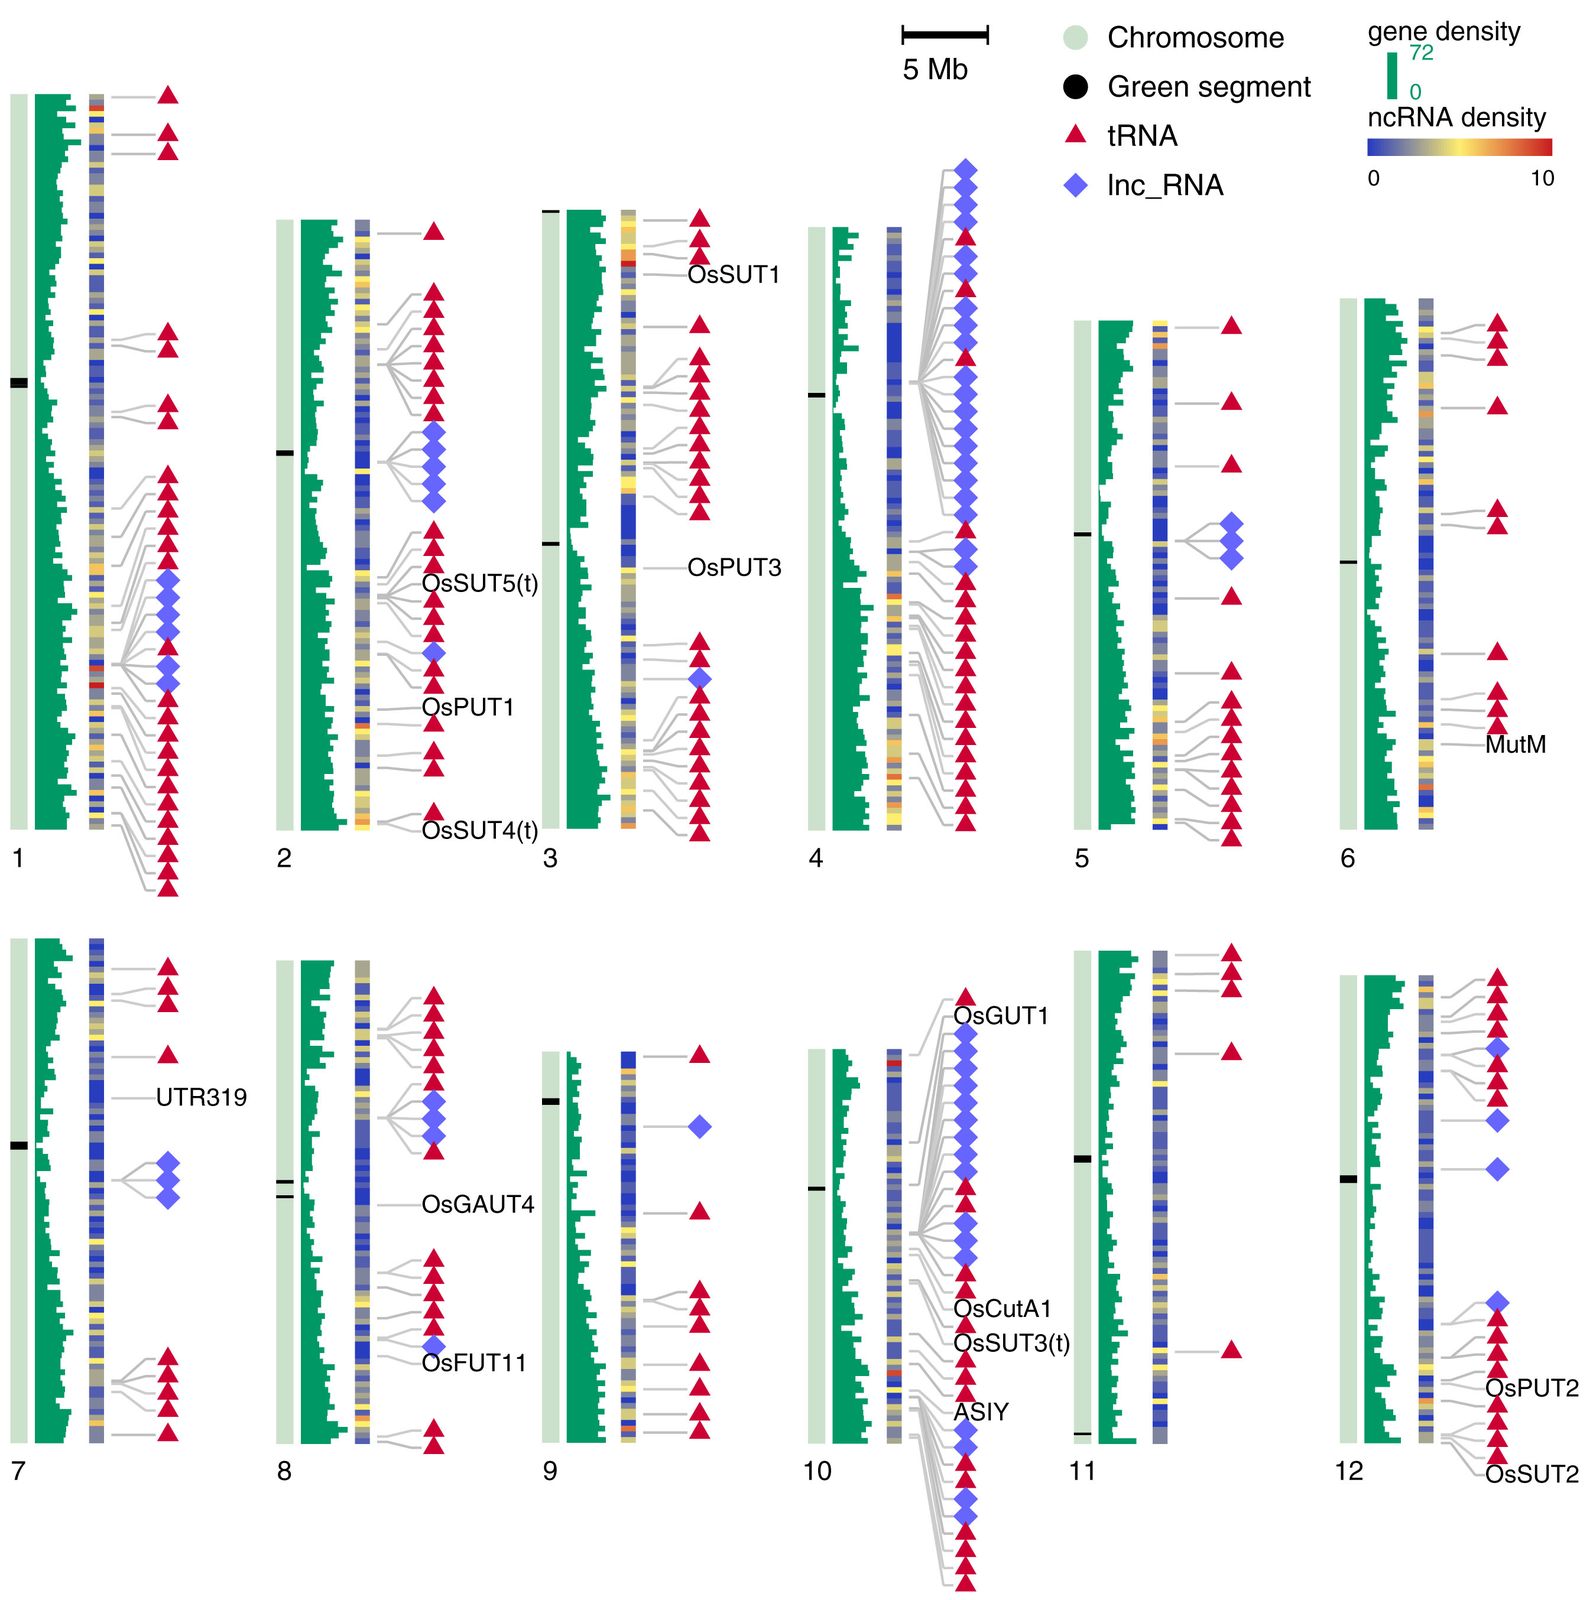
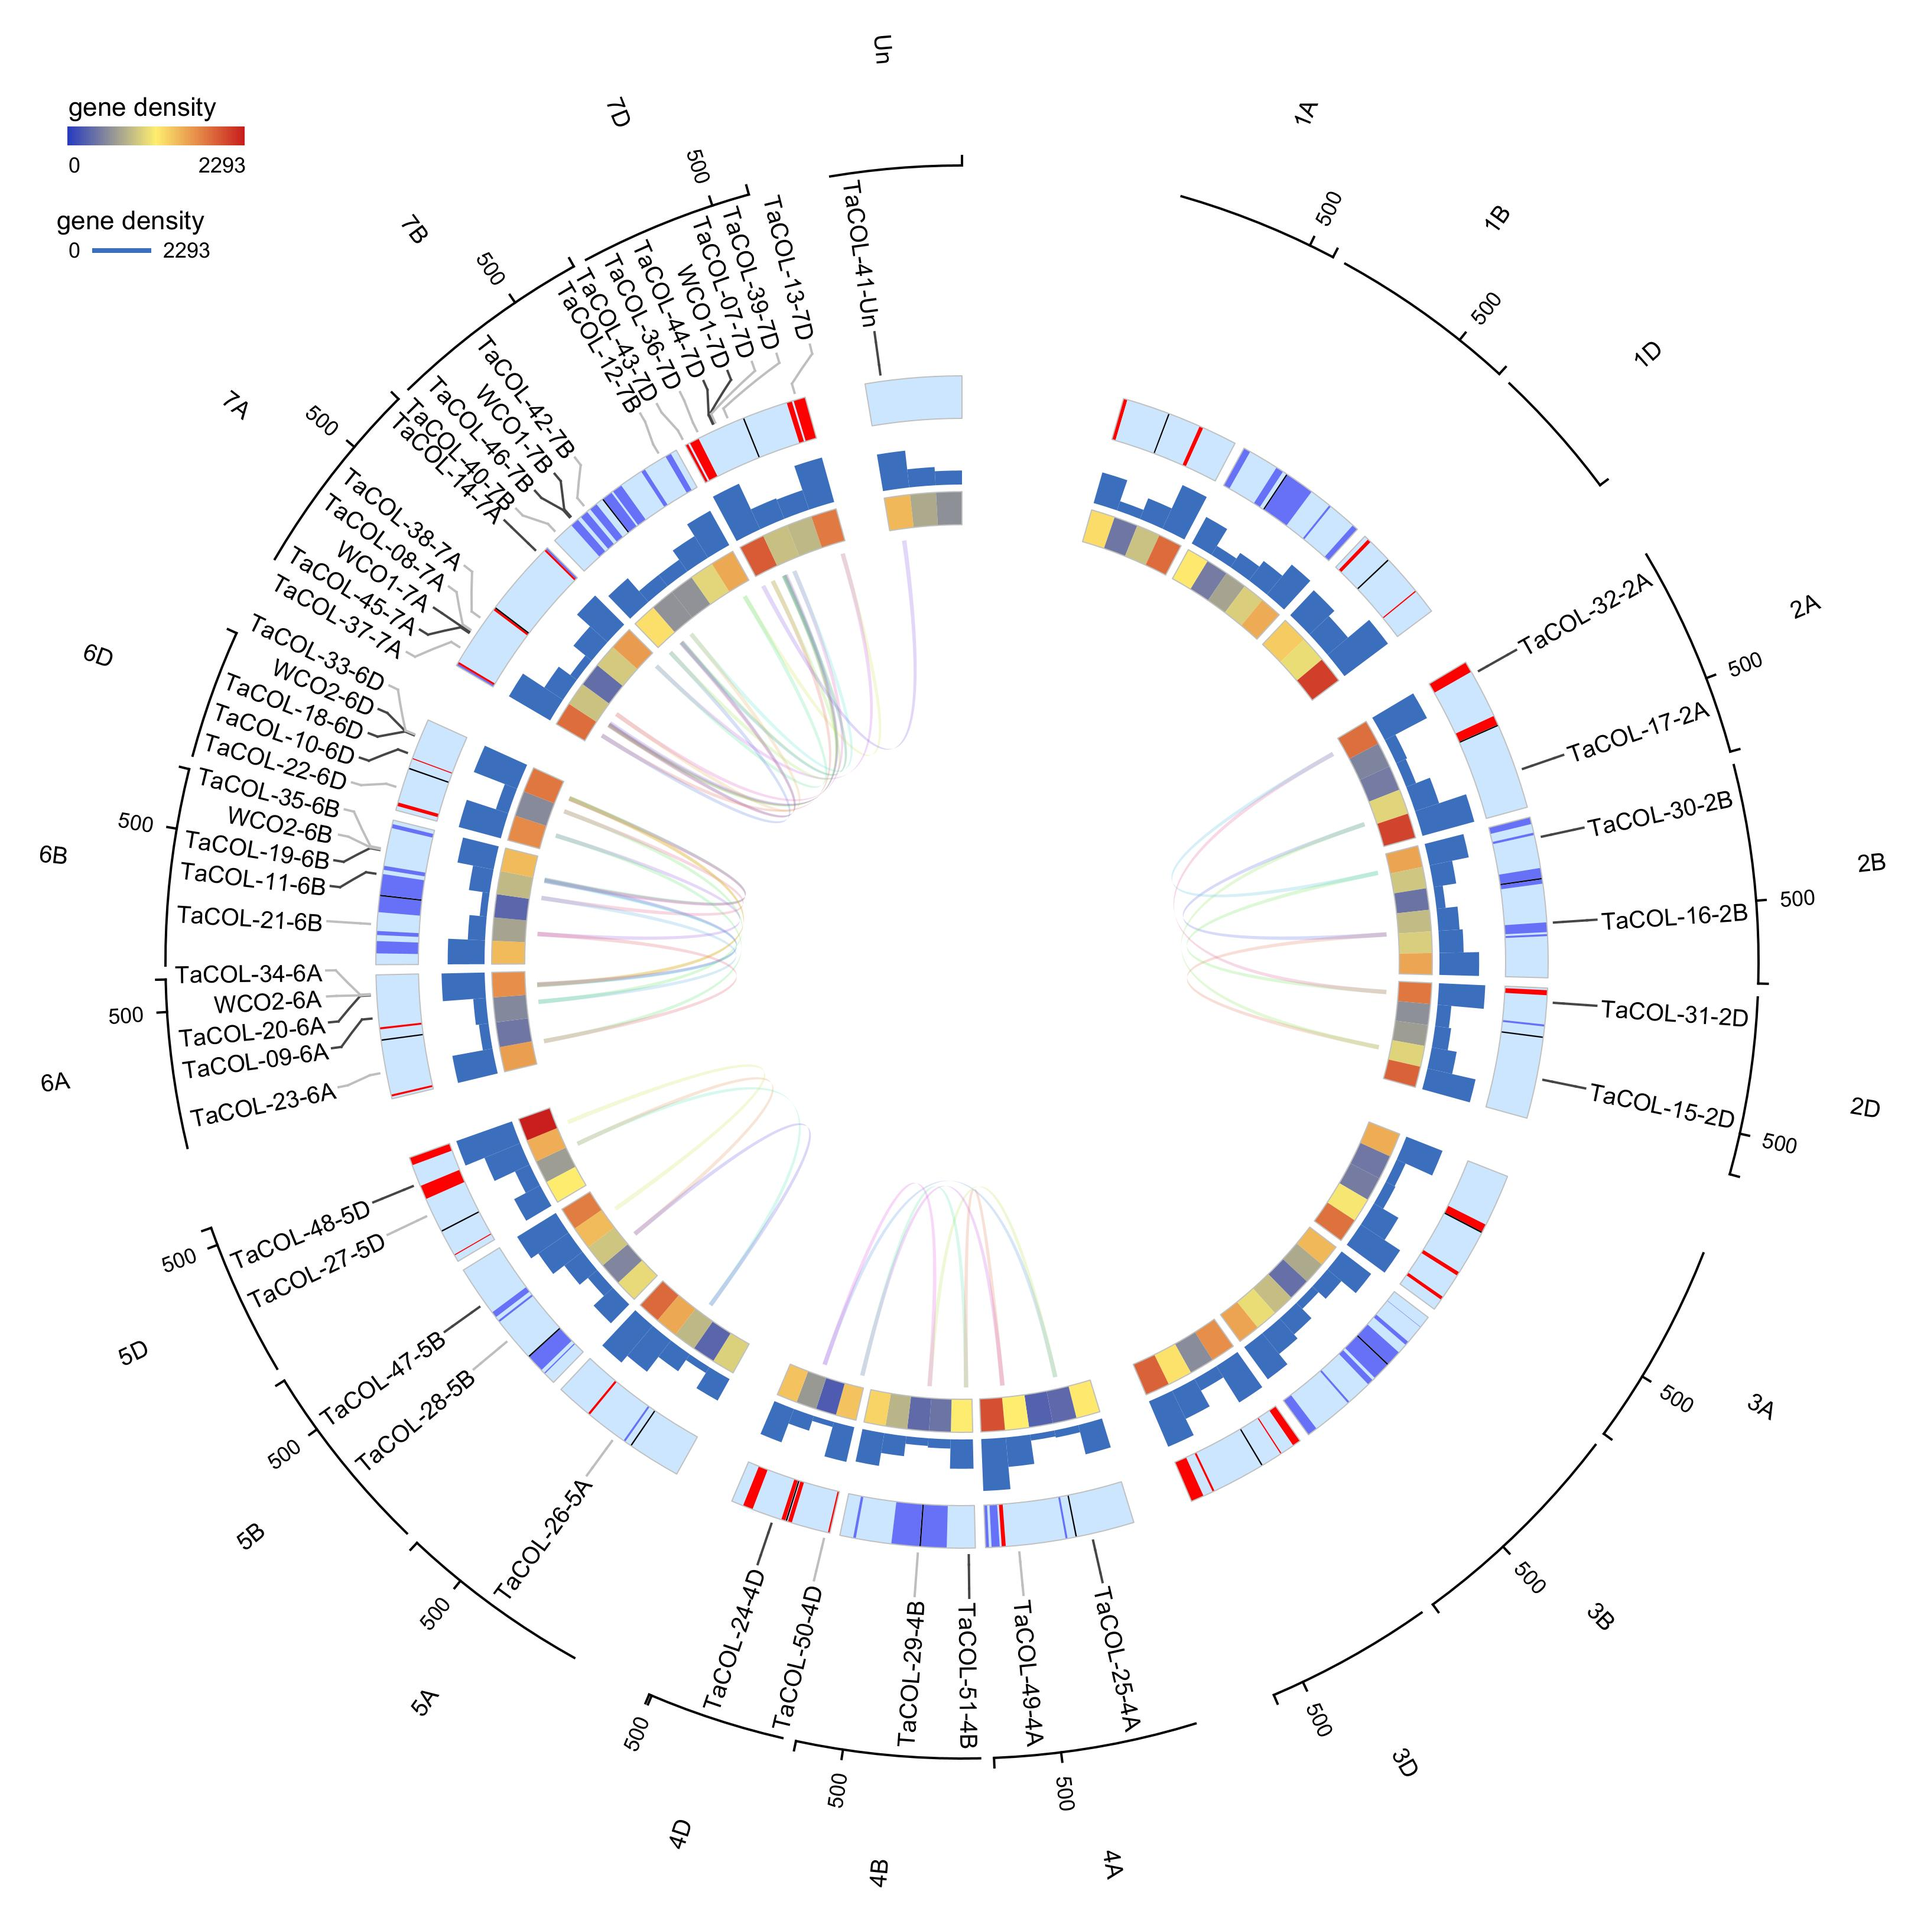
IdeoKar2

diff --git a/README.md b/README.md
@@ -284,63 +284,31 @@ resulting repeat arrays as colored chromosome bands.
 
 
 
-
 <figure>
-    <img src="Figure 5.jpg" style="width: 100%;" alt="Figure 2" />
+    <img src="Figure 5.jpg" style="width: 100%;" alt="Figure 5" />
   <figcaption aria-hidden="true">
-    Figure 5: Ideogram of Triticum dicoccoides generated using the Genomic Ideogram plugin, with the genome sequence and GFF3 annotation file as inputs. Three genomic tracks are displayed: (1) (GA)₂₅₀ repeat bands along the chromosomes; (2) gene density; and (3) long non-coding RNA (lncRNA) density. U2 small nuclear RNA genes are additionally searched and displayed as feature labels along the chromosomes. Light-gray connector lines indicate genes located on the negative (−) strand, whereas dark-gray connector lines indicate genes located on the positive (+) strand.
+    Figure 5: Genomic distribution of candidate genes across  rice chromosomes, generated with the Genomic Ideogram plugin of IdeoKar2. Each chromosome is represented by three bars: 1)  A centromeric repeat (AAACATGATTTTTGGACATATTGGAGTGTATTGGG; Max mismatch:2, Merge gap: 500, Min copies: 1) (A partial segment of AF058902, Dong et al., 1998, PNAS) bands along the chromosomes, 2) local gene density, and 3) lncRNA density. Some genes are labeled with their gene symbol. Unlabeled symbols correspond to additional family members whose positions are shown but not individually named. Where multiple genes cluster within a short physical interval, their connector lines converge to a single locus on the chromosome to indicate tandem or closely linked arrangement.
   </figcaption>
 </figure>
 
 <p><br></p>
-
 
 
 
 <figure>
     <img src="Figure 6.jpg" style="width: 100%;" alt="Figure 6" />
   <figcaption aria-hidden="true">
-    Figure 6: Ideogram of Oryza sativa generated using the Genomic Ideogram plugin, with the genome sequence and GFF3 annotation file (v 1.0.63) as inputs. Three genomic tracks are displayed: (1) A centromeric repeat (AAACATGATTTTTGGACATATTGGAGTGTATTGGG; Max mismatch:2, Merge gap: 500, Min copies: 1) (A partial segment of AF058902, Dong et al., 1998, PNAS) bands along the chromosomes; (2) gene density; and (3) non-coding RNA (ncRNA) density. tRNA genes are additionally searched and displayed as feature labels along the chromosomes. Light-gray connector lines indicate genes located on the negative (−) strand, whereas dark-gray connector lines indicate genes located on the positive (+) strand.
+    Figure 6: The Ideogram panel showing circular genomic ideogram of  Plantago ovata generated using the Genomic Ideogram plugin, showing genomic features and intrachromosomal relationships generated by uploading MCScanX output. Some regions also highlighted by colored ribbons uploaded via 'Load Genomic ribbons CSV ...'. Gene density is shown as a blue-to-red track, together with an additional gene-density profile.
   </figcaption>
 </figure>
 
 <p><br></p>
-
 
 
 <figure>
     <img src="Figure 7.jpg" style="width: 100%;" alt="Figure 7" />
   <figcaption aria-hidden="true">
-    Figure 7: Genomic distribution of candidate genes across  rice chromosomes, generated with the Genomic Ideogram plugin of IdeoKar2. Each chromosome is represented by three bars: Telomeric repeats, local gene density, and lncRNA density. Some genes are labeled with their gene symbol. Unlabeled symbols correspond to additional family members whose positions are shown but not individually named. Where multiple genes cluster within a short physical interval, their connector lines converge to a single locus on the chromosome to indicate tandem or closely linked arrangement.
-  </figcaption>
-</figure>
-
-<p><br></p>
-
-<figure>
-    <img src="Figure 8.jpg" style="width: 100%;" alt="Figure 8" />
-  <figcaption aria-hidden="true">
-    Figure 7: Some other adjustments to the above case in figure 7.
-  </figcaption>
-</figure>
-
-<p><br></p>
-
-
-<figure>
-    <img src="Figure 9.jpg" style="width: 100%;" alt="Figure 9" />
-  <figcaption aria-hidden="true">
-    Figure 9: The Ideogram panel showing circular genomic ideogram of  Plantago ovata generated using the Genomic Ideogram plugin, showing genomic features and intrachromosomal relationships generated by uploading MCScanX output. Some regions also highlighted by colored ribbons uploaded via 'Load Genomic ribbons CSV ...'. Gene density is shown as a blue-to-red track, together with an additional gene-density profile.
-  </figcaption>
-</figure>
-
-<p><br></p>
-
-
-<figure>
-    <img src="Figure 10.jpg" style="width: 100%;" alt="Figure 10" />
-  <figcaption aria-hidden="true">
-    Figure 10: An example of the circular genomic ideogram for common wheat generated using the Genomic Ideogram plugin of IdeoKar2 showing chromosomal location of the wheat COL genes. Homoeologs are mapped to wheat chromosomes (composed of A, B, and D subgenomes) plus the unassembled (Un) part of the genome. Homoeologs were linked using curved lines (Ribbons). Chromosomes are banded by uploading cytoband svg file which shows banding according to pTa535-1 (red bands) and (GAA)10 (blue bands) FISH patterns. Chromosome number is indicated in the outside layer. Here, Bins per Mb was defined as 0.007 which divided each chromosome to 3 (1D) to 6 (3B) bins with different gene densities.
+    Figure 7: An example of the circular genomic ideogram for common wheat generated using the Genomic Ideogram plugin of IdeoKar2 showing chromosomal location of the wheat COL genes. Homoeologs are mapped to wheat chromosomes (composed of A, B, and D subgenomes) plus the unassembled (Un) part of the genome. Homoeologs were linked using curved lines (Ribbons). Chromosomes are banded by uploading cytoband svg file which shows banding according to pTa535-1 (red bands) and (GAA)10 (blue bands) FISH patterns. Chromosome number is indicated in the outside layer. Here, Bins per Mb was defined as 0.007 which divided each chromosome to 3 (1D) to 6 (3B) bins with different gene densities.
   </figcaption>
 </figure>
 
